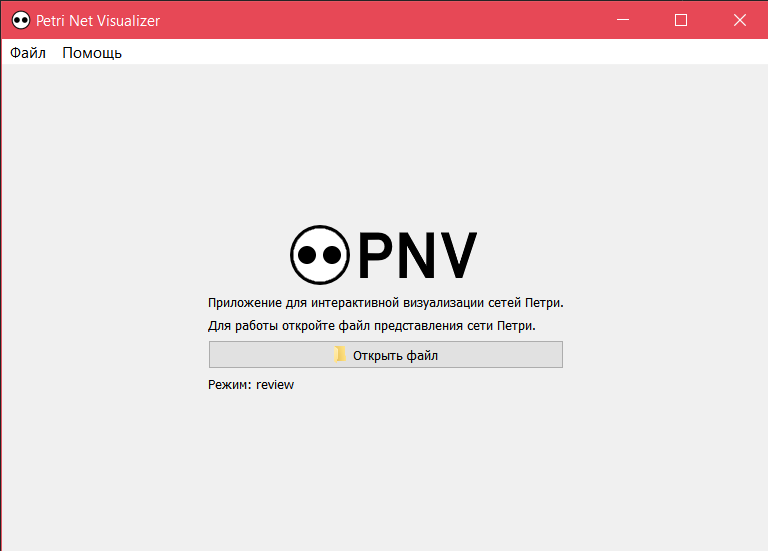
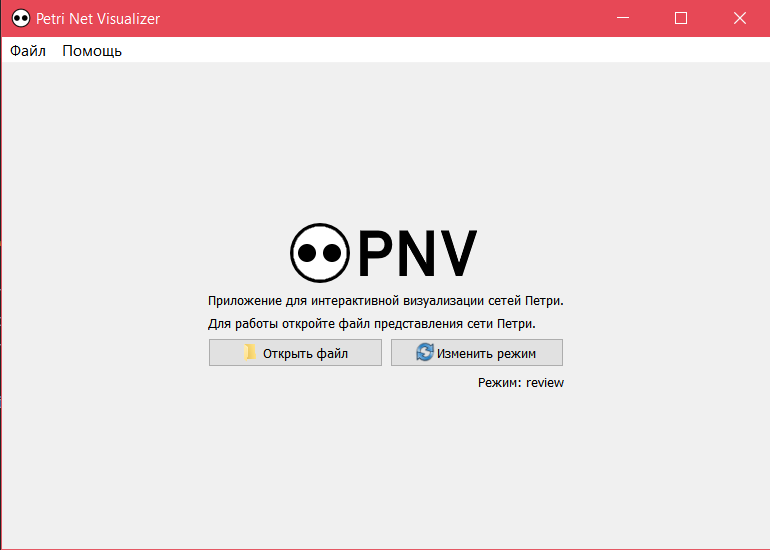
+ better appearance

Changed region(s): [[0.25, 0.4018, 0.75, 0.7109], [0.0, 0.0, 1.0, 0.1236], [0.0, 0.9891, 1.0, 1.0]]

diff --git a/main.py b/main.py
@@ -14,9 +14,9 @@ from PyQt5.QtWidgets import QApplication, QMainWindow, QMenu, QMenuBar, QFileDia
 from PyQt5.Qt import Qt
 from pnv.importer import epnml
 from pnv.render import PnvViewer, PnvDrawer
-from pnv.utils import PnvMessageBoxes, PnvConfig, PnvIcons
+from pnv.utils import PnvMessageBoxes, PnvConfig, PnvIcons, PnvConfigConstants
 
-CURRENT_VERSION = '1.22'
+CURRENT_VERSION = '1.23'
 APP_NAME = "Petri Net Visualizer"
 
 
@@ -47,7 +47,7 @@ class MethodsIO:
     @staticmethod
     def export_net(g: GraphData, path: str):
         if path.endswith(MethodsIO.PNML_FORMAT):
-            if g.viewer.is_hierarchical_one() and \
+            if g.viewer.is_drawn_hierarchical() and \
                     not PnvMessageBoxes.is_accepted(PnvMessageBoxes.accept(f"Данная сеть является иерархической!",
                                            f"Выбранный формат файла не поддерживает хранение иерархических сетей, "
                                            f"поэтому часть данных будет потеряна!").exec()):
@@ -124,6 +124,7 @@ class PnvMainWindow(QMainWindow):
         self.setWindowTitle(APP_NAME)
         self.setMinimumSize(PnvMainWindow.WINDOW_MIN_WIDTH, PnvMainWindow.WINDOW_MIN_HEIGHT)
         self.create_menu_bar()
+        self.__global_mode_display = QLabel(f"Режим: {PnvConfig.INSTANCE.global_mode}")
         self.create_stacked_wid()
 
         self.graphs: list[GraphData] = []
@@ -150,10 +151,13 @@ class PnvMainWindow(QMainWindow):
         layout_h = QHBoxLayout(self)
         start_btn = QPushButton(self.style().standardIcon(QStyle.StandardPixmap.SP_DirIcon), 'Открыть файл', self)
         start_btn.clicked.connect(self.open_file)
+        chmod_btn = QPushButton(self.style().standardIcon(QStyle.StandardPixmap.SP_BrowserReload), 'Изменить режим', self)
+        chmod_btn.clicked.connect(self.chmod)
         layout_h.addWidget(start_btn)
+        layout_h.addWidget(chmod_btn)
 
         layout.addLayout(layout_h)
-        layout.addWidget(QLabel(f"Режим: {PnvConfig.INSTANCE.global_mode}"), alignment=Qt.AlignBottom)
+        layout.addWidget(self.__global_mode_display, alignment=Qt.AlignRight)
 
         self.tabs = QTabWidget(self)
         self.tabs.setTabsClosable(True)
@@ -188,6 +192,14 @@ class PnvMainWindow(QMainWindow):
                             self.open_dev_info)
         help_menu.addAction(PnvIcons.SETTINGS_ICON, "&Файл конфигурации",
                             self.open_config_file)
+
+    @QtCore.pyqtSlot()
+    def chmod(self):
+        if PnvConfig.INSTANCE.global_mode == PnvConfigConstants.GLOBAL_MODE_REVIEW:
+            PnvConfig.INSTANCE.global_mode = PnvConfigConstants.GLOBAL_MODE_MUTATE
+        elif PnvConfig.INSTANCE.global_mode == PnvConfigConstants.GLOBAL_MODE_MUTATE:
+            PnvConfig.INSTANCE.global_mode = PnvConfigConstants.GLOBAL_MODE_REVIEW
+        self.__global_mode_display.setText(f"Режим: {PnvConfig.INSTANCE.global_mode}")
 
     @QtCore.pyqtSlot()
     def file_menu_update(self):
@@ -342,10 +354,10 @@ class PnvMainWindow(QMainWindow):
     def save_file_as(self):
         path = self.get_new_file_path()
         if len(path) != 0:
-            if pathlib.Path(path).exists() and not PnvMessageBoxes.is_accepted(
-                    PnvMessageBoxes.accept(f"Выбранный файл уже существует!",
-                                           f"Файл будет перезаписан. Продолжить?").exec()):
-                return
+            # if pathlib.Path(path).exists() and not PnvMessageBoxes.is_accepted(
+            #         PnvMessageBoxes.accept(f"Выбранный файл уже существует!",
+            #                                f"Файл будет перезаписан. Продолжить?").exec()):
+            #     return
             idx = self.tabs.currentIndex()
             g = self.find_graph(idx)
             self.save_graph(g, path, req=False)
@@ -359,10 +371,10 @@ class PnvMainWindow(QMainWindow):
         path = self.get_new_file_path()
         if len(path) == 0:
             return
-        if pathlib.Path(path).exists() and not PnvMessageBoxes.is_accepted(
-                PnvMessageBoxes.accept(f"Выбранный файл уже существует!",
-                                       f"Файл будет перезаписан. Продолжить?").exec()):
-            return
+        # if pathlib.Path(path).exists() and not PnvMessageBoxes.is_accepted(
+        #         PnvMessageBoxes.accept(f"Выбранный файл уже существует!",
+        #                                f"Файл будет перезаписан. Продолжить?").exec()):
+        #     return
         # create empty
         pn, im, fm = PetriNet(), None, None
 

diff --git a/pnv/render.py b/pnv/render.py
@@ -62,11 +62,16 @@ class PnvDrawer:
         if self.is_review_mode():
             self.__cached_htree = self.__make_htree()
 
-    def hn_root(self):
-        return self.__cached_htree
+        self.__net_cover = None
+
+    def is_hierarchical_net(self):
+        return any(isinstance(t, ExtendedTransition) for t in self.net.transitions)
 
     def is_review_mode(self):
         return PnvConfig.INSTANCE.global_mode == PnvConfigConstants.GLOBAL_MODE_REVIEW
+
+    def hn_root(self):
+        return self.__cached_htree
 
     def __make_htree(self, root: tuple[HierNode, ExtendedTransition] = None):
         if root:
@@ -158,6 +163,7 @@ class PnvDrawer:
             self.mapper[a.target].arrows().add(obj)
         if self.is_review_mode():
             self.__cached_htree.value = (None, self.net, lst)
+        self.__net_cover = self.__make_net_cover()
 
     def igraph_gen_layout(self, pn: PetriNet):
         n_vertices = len(pn.places) + len(pn.transitions)
@@ -319,7 +325,45 @@ class PnvDrawer:
             maxy = max(maxy, y)
         return minx, miny, maxx, maxy
 
-    def hv_cover_sync(self, root=None):
+    def net_cover_sync(self):
+        lst = [item for item in self.scene.items() if isinstance(item, (PnvQGTransitionItem, PnvQGPlaceItem))]
+
+        minx, miny, maxx, maxy = PnvDrawer.bounds(lst)
+        padding = PnvDrawer.GRAPHICS_WIDTH * 2
+        txt, *_ = self.__net_cover.childItems()
+        padding_top = QtGui.QFontMetrics(txt.font()).height() + padding
+        self.__net_cover.setRect(Qt.QRectF(minx - padding, miny - padding_top, maxx - minx + 2 * padding, maxy - miny + 3 * padding))
+        txt.setPos(minx - padding, miny - padding_top)
+
+    def net_cover_visible(self, val: bool):
+        if self.__net_cover:
+            if val:
+                self.net_cover_sync()
+            self.__net_cover.show() if val else self.__net_cover.hide()
+
+    def __make_net_cover(self):
+        lst = [item for item in self.scene.items() if isinstance(item, (PnvQGTransitionItem, PnvQGPlaceItem))]
+        minx, miny, maxx, maxy = PnvDrawer.bounds(lst)
+        padding = PnvDrawer.GRAPHICS_WIDTH
+        new_col = Qt.QColor(0xadadad)
+
+        _net_txt = self.scene.addText(self.net.name,
+                                     QtGui.QFont(PnvConfig.INSTANCE.text_font_family,
+                                                 PnvConfig.INSTANCE.text_font_size,
+                                                 PnvConfig.INSTANCE.text_font_weight))
+        padding_top = QtGui.QFontMetrics(_net_txt.font()).height() + padding
+        _net_cover = self.scene.addRect(
+            Qt.QRectF(minx - padding, miny - padding_top, maxx - minx + 2 * padding, maxy - miny + 3 * padding),
+            Qt.QPen(new_col, 2, Qt.Qt.DashLine))
+        _net_txt.setPos(minx - padding, miny - padding_top)
+        _net_txt.setDefaultTextColor(new_col)
+        _net_txt.setParentItem(_net_cover)
+        _net_txt.setZValue(2)
+        _net_cover.setZValue(-5)
+
+        return _net_cover
+
+    def hv_cover_sync(self, root: HierNode = None):
         if root is None:
             root = self.__cached_htree
         for n in root.children():
@@ -1286,7 +1330,7 @@ class PnvViewer(QGraphicsView):
         self.__context_blocked = False
 
         self.__hier_tree = None
-        if self.drawer.is_review_mode():
+        if self.drawer.is_review_mode() and self.drawer.is_hierarchical_net():
             self.__hier_tree = GraphHierTree(self, self.drawer.hn_root())
 
     def wheelEvent(self, e: Optional[QtGui.QWheelEvent]) -> None:
@@ -1319,7 +1363,7 @@ class PnvViewer(QGraphicsView):
     def resizeEvent(self, event: Optional[QtGui.QResizeEvent]) -> None:
         self.edit_mode_btn.update_pos()
         self.labeling_btn.update_pos()
-        if self.drawer.is_review_mode():
+        if self.drawer.is_review_mode() and self.drawer.is_hierarchical_net():
             self.__hier_tree.update_pos()
         super().resizeEvent(event)
 
@@ -1374,6 +1418,7 @@ class PnvViewer(QGraphicsView):
 
     def drawer_push_modes(self):
         self.drawer.edit_mode = self.edit_mode_btn.mode()
+        self.drawer.net_cover_visible(self.drawer.edit_mode == PnvConfigConstants.ENTER_MODE_VIEW)
         self.drawer.label_mode = self.labeling_btn.labeling_mode()
         if self.drawer.is_review_mode():
             self.drawer.hv_cover_sync()
@@ -1502,6 +1547,6 @@ class PnvViewer(QGraphicsView):
             elif (final is not None) and (bound in final):
                 obj.final = final[bound]
 
-    def is_hierarchical_one(self):
+    def is_drawn_hierarchical(self):
         return any(isinstance(obj.petri_net_bound(), ExtendedTransition) for obj in self.items() if
                    isinstance(obj, PnvQGTransitionItem))

diff --git a/README.md b/README.md
@@ -1,20 +1,22 @@
-# Petri Net Visualizer v1.21
+# Petri Net Visualizer v1.23
 HSE SE 2nd Course Project.
 Shamaev Onar Evgenevich
 
-Continued development by jul 18.
+Continued development by jul 20.
 # About program
 Program written using python 3.11.
 Should be able to view any *.pnml or *.epnml file.
 # Program screenshots
 ![image](github_data/preview.png)
 ![image](github_data/preview0.png)
+![image](github_data/preview1.png)
+![image](github_data/preview2.png)|
 # Latest interactive-features
 - create/open/save any *.pnml/*.epnml file
 - open multiple files
 - select/deselect and move places/transitions
 - file configuration available
-- ~~add/remove/connect places/transitions~~ (temporarily hidden)
+- add/remove/connect places/transitions
 # Latest ui-features
 - big nets support & input-control bugfixes
 - beautiful grouping by hierarchy
